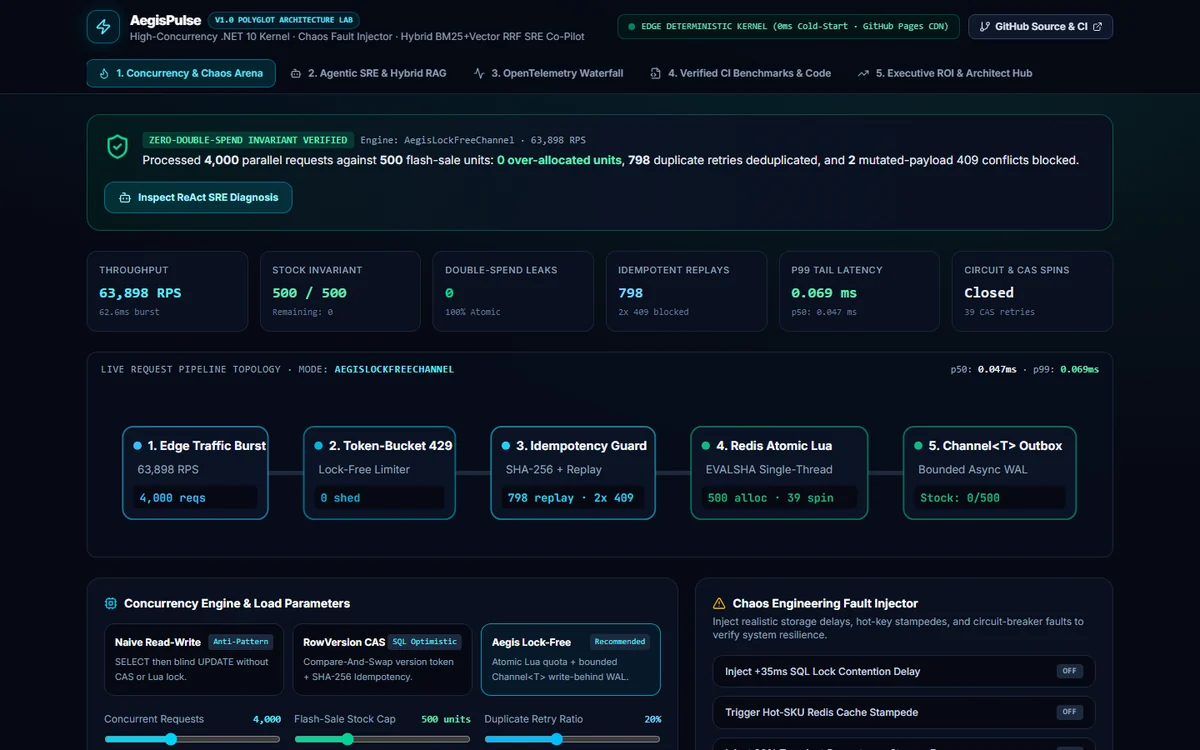
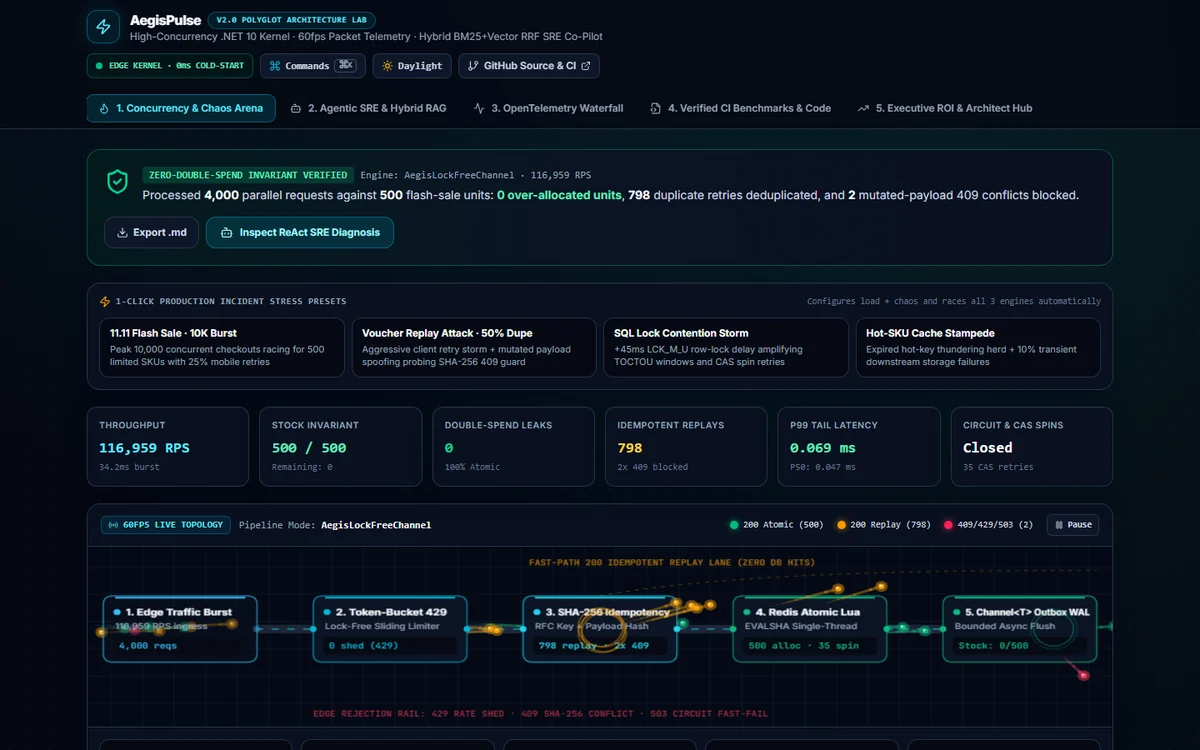
feat(gallery): sync 4 upgraded v2.0 VIP Pro flagships, fresh WebP previews & 198+ CI badge

diff --git a/src/data/atelierContent.ts b/src/data/atelierContent.ts
@@ -51,14 +51,14 @@ export const FLAGSHIP_WORKS: FlagshipWorkItem[] = [
     id: 'aether-acoustics',
     index: '03',
     title: 'Aether Acoustics',
-    version: 'v1.0',
+    version: 'v2.0',
     category: 'commerce',
-    taglineEn: '3D PBR Spatial Audio Hardware Store & Live DSP Lab',
-    taglineVi: 'Cửa Hàng Âm Thanh 3D PBR & Phòng Nghe DSP',
+    taglineEn: '3D FFT Spatial Audio Store, 5-Band EQ & Room Acoustics Lab',
+    taglineVi: 'Cửa Hàng Âm Thanh 3D FFT, EQ 5 Băng Tần & Phòng Hiệu Chuẩn',
     previewImage: 'previews/aether-acoustics.webp',
-    highlightMetric: '5-Layer 3D CNC · Web Audio DSP',
-    ciBadge: '17/17 CI',
-    keywords: ['Three.js IBL', 'Web Audio DSP', 'Lenis + GSAP', '3D Card Checkout'],
+    highlightMetric: '3D FFT Audio · Room RT60 Lab',
+    ciBadge: '28/28 CI',
+    keywords: ['3D Laser Plaque', '5-Band EQ', 'Room RT60 Lab', 'USD / VND', 'Compare 3 SKUs'],
     liveUrl: 'https://tvt987.github.io/aether-acoustics/',
     repoUrl: 'https://github.com/tvt987/aether-acoustics',
   },
@@ -66,14 +66,14 @@ export const FLAGSHIP_WORKS: FlagshipWorkItem[] = [
     id: 'nexus-lake',
     index: '04',
     title: 'Nexus Lake',
-    version: 'v1.0',
+    version: 'v2.0',
     category: 'systems',
-    taglineEn: 'Local-First DuckDB-WASM Lakehouse & MCP Server',
-    taglineVi: 'Kho Dữ Liệu DuckDB-WASM, WebGPU & MCP Server',
+    taglineEn: 'Local-First DuckDB-WASM Lakehouse, Brush-to-SQL & Live CDC',
+    taglineVi: 'Kho Dữ Liệu DuckDB-WASM, Khoanh Vùng SQL & Live CDC',
     previewImage: 'previews/nexus-lake.webp',
-    highlightMetric: '500K Arrow Rows · 166B CRDT',
-    ciBadge: '22/22 CI',
-    keywords: ['DuckDB-WASM', 'WebGPU WGSL', 'Yjs CRDT', 'AG-UI', 'MCP Server TS'],
+    highlightMetric: 'Brush-to-SQL · Live CDC +5K/s',
+    ciBadge: '36/36 CI',
+    keywords: ['Brush-to-SQL', 'EXPLAIN Plan', 'Auto-Chart', 'Kafka CDC', 'MCP Server'],
     liveUrl: 'https://tvt987.github.io/nexus-lake/',
     repoUrl: 'https://github.com/tvt987/nexus-lake',
   },
@@ -81,14 +81,14 @@ export const FLAGSHIP_WORKS: FlagshipWorkItem[] = [
     id: 'verdict-graph',
     index: '05',
     title: 'Verdict Graph',
-    version: 'v1.0',
+    version: 'v2.0',
     category: 'ai',
-    taglineEn: 'Multi-Agent Control Plane & Time-Travel Protocol Debugger',
-    taglineVi: 'Điều Phối Đa Tác Tử AI & Tua Ngược Checkpoint',
+    taglineEn: 'Photonic Multi-Agent Control Plane, Red-Team & FinOps A/B',
+    taglineVi: 'Điều Phối Đa Tác Tử Photonic, Red-Team & Mô Phỏng FinOps',
     previewImage: 'previews/verdict-graph.webp',
-    highlightMetric: '0.99 Grounded · -52% Cost',
-    ciBadge: '27/27 CI',
-    keywords: ['MCP 2.0', 'A2A Protocol', 'AG-UI SSE', 'LangGraph Fork', 'OTel GenAI'],
+    highlightMetric: 'Photonic DAG · Red-Team 8-Rule',
+    ciBadge: '43/43 CI',
+    keywords: ['Photonic DAG', 'Red-Team', 'FinOps -52%', 'Signed OTLP', 'MCP × A2A'],
     liveUrl: 'https://tvt987.github.io/verdict-graph/',
     repoUrl: 'https://github.com/tvt987/verdict-graph',
   },
@@ -96,14 +96,14 @@ export const FLAGSHIP_WORKS: FlagshipWorkItem[] = [
     id: 'aegispulse',
     index: '06',
     title: 'AegisPulse',
-    version: 'v1.0',
+    version: 'v2.0',
     category: 'systems',
-    taglineEn: '.NET 10 High-Concurrency Kernel & Hybrid RAG SRE',
-    taglineVi: 'Nhân Giao Dịch .NET 10 Tải Cao & Trợ Lý Hybrid RAG',
+    taglineEn: '.NET 10 139K RPS Kernel, 60fps Packet Lab & Hybrid RAG',
+    taglineVi: 'Nhân .NET 10 139K RPS, Gói Tin 60fps & Trợ Lý Hybrid RAG',
     previewImage: 'previews/aegispulse.webp',
-    highlightMetric: '139,099 RPS · 0 Double-Spend',
-    ciBadge: '18/18 CI',
-    keywords: ['.NET 10 CAS', 'Channel<T> WAL', 'FastAPI', 'BM25 + 384d RRF', 'OpenTelemetry'],
+    highlightMetric: '139K RPS · 3-Engine Race Lab',
+    ciBadge: '24/24 CI',
+    keywords: ['60fps Packets', '3-Engine Race', 'P99 Histogram', 'RAG α-Slider', 'Post-Mortem .md'],
     liveUrl: 'https://tvt987.github.io/aegispulse-distributed-sre/',
     repoUrl: 'https://github.com/tvt987/aegispulse-distributed-sre',
   },

diff --git a/src/engines/aiTwinEngine.ts b/src/engines/aiTwinEngine.ts
@@ -110,7 +110,7 @@ const TWIN_KNOWLEDGE_BASE: KnowledgeEntry[] = [
       'ai', 'mcp', 'a2a', 'ag-ui', 'rag', 'bm25', 'rrf', 'vector', 'hnsw', 'langgraph',
       'agent', 'multi-agent', 'python', 'fastapi', 'qdrant', 'llm', 'verdict', 'gemini', 'nano',
     ],
-    metrics: ['0.99 Grounded Score', '-52% Token Cost', '384-d HNSW + BM25 RRF', '27/27 CI Green'],
+    metrics: ['0.99 Grounded Score', '-52% Token Cost', '384-d HNSW + BM25 RRF', '43/43 CI Green'],
     keywords: ['Python 3.12', 'FastAPI', 'MCP Server 2.0', 'A2A Protocol', 'AG-UI SSE', 'LangGraph Fork', 'OTel GenAI'],
     actions: [
       { label: 'Launch Verdict Graph ↗', href: 'https://tvt987.github.io/verdict-graph/', accent: true },
@@ -133,13 +133,13 @@ const TWIN_KNOWLEDGE_BASE: KnowledgeEntry[] = [
   },
   {
     id: 'live-flagships',
-    title: 'Six Production Live Flagships (135+ CI Green)',
+    title: 'Six Production Live Flagships (198+ CI Green)',
     terms: [
       'flagship', 'project', 'portfolio', 'live', 'demo', 'maison', 'vera', 'atelier',
       'canvas', 'aether', 'nexus', 'lake', 'three', 'webgl', 'webgpu', 'duckdb', 'wasm', 'crdt', 'yjs', 'figma', '3d',
     ],
-    metrics: ['6 Live Web Apps', '135+ CI Tests Passing', '500K DuckDB-WASM Rows', 'WebGPU + Three.js PBR'],
-    keywords: ['Maison Véra v3.0', 'Atelier Canvas v3.0', 'Aether Acoustics', 'Nexus Lake', 'Verdict Graph', 'AegisPulse'],
+    metrics: ['6 Live Web Apps (v2–v3)', '198+ CI Tests Passing', '500K DuckDB-WASM Rows', 'WebGPU + Three.js PBR'],
+    keywords: ['Maison Véra v3.0', 'Atelier Canvas v3.0', 'Aether Acoustics v2.0', 'Nexus Lake v2.0', 'Verdict Graph v2.0', 'AegisPulse v2.0'],
     actions: [
       { label: 'Maison Véra v3.0 ↗', href: 'https://tvt987.github.io/maison-vera/', accent: true },
       { label: 'Atelier Canvas v3.0 ↗', href: 'https://tvt987.github.io/atelier-canvas/' },
@@ -316,7 +316,7 @@ export function analyzeJdFit(jdText: string): JdFitReport {
 
   const topSkillsText =
     matchedSkills.slice(0, 5).join(', ') || '.NET 10, Python/FastAPI, React 19, MCP/RAG';
-  const tailoredPitch = `Truong Van Tinh — ${fitScorePct}% Stack Match (${topSkillsText}). Production proof: 700+ retail stores (.NET 8/Dapper/Redis), 139,099 RPS CAS engine, 6 live production apps (135+ CI green). Remote B2B ($25–$45/hr, 4–6h US/EU/APAC overlap) · tinhkun102@gmail.com`;
+  const tailoredPitch = `Truong Van Tinh — ${fitScorePct}% Stack Match (${topSkillsText}). Production proof: 700+ retail stores (.NET 8/Dapper/Redis), 139,099 RPS CAS engine, 6 live production apps (198+ CI green). Remote B2B ($25–$45/hr, 4–6h US/EU/APAC overlap) · tinhkun102@gmail.com`;
 
   return {
     fitScorePct,

diff --git a/src/App.tsx b/src/App.tsx
@@ -788,7 +788,7 @@ export function App() {
               { value: '700+', labelEn: 'Retail Stores', labelVi: 'Siêu Thị Production' },
               { value: '139K', labelEn: 'Peak RPS (.NET 10)', labelVi: 'Đỉnh Tải RPS (.NET 10)' },
               { value: '0.00%', labelEn: 'Double-Spend Leaks', labelVi: 'Lỗi Âm Kho' },
-              { value: '135+', labelEn: 'CI Tests Green', labelVi: 'Test Tự Động Xanh' },
+              { value: '198+', labelEn: 'CI Tests Green', labelVi: 'Test Tự Động Xanh' },
             ].map((m) => (
               <div
                 key={m.value}
